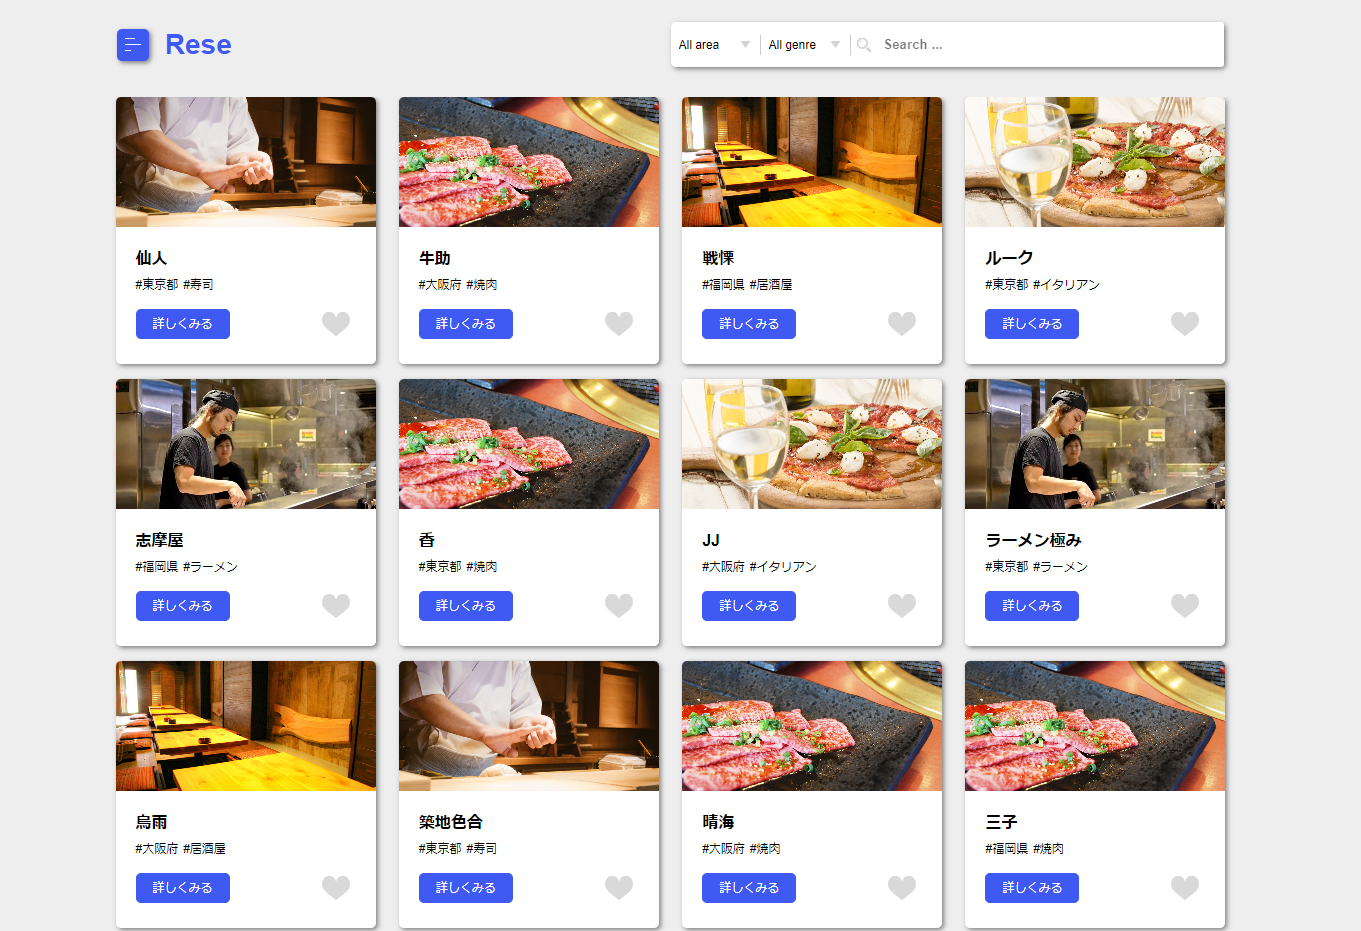
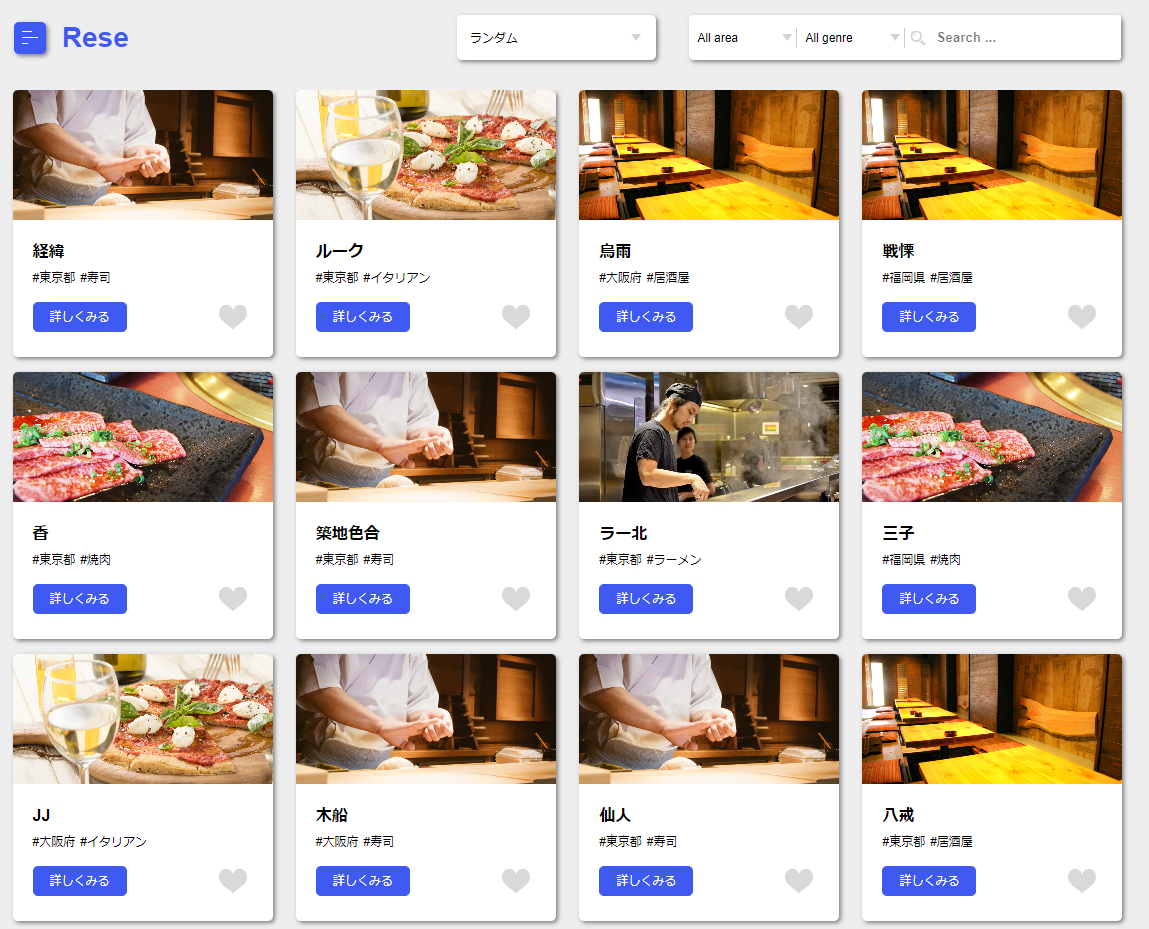
修正

diff --git a/src/resources/views/index.blade.php b/src/resources/views/index.blade.php
@@ -5,7 +5,7 @@
 @endsection
 
 @section('header')
-    <div class="header__right">
+    <form class="header__right" action="/" method="get">
         <div class="header__sort">
             <label class="select-box__label sort__label">
                 <select name="sort" class="select-box__item sort__item">
@@ -44,7 +44,7 @@
                 </label>
             </div>
         </div>
-    </div>
+    </form>
 
     <div class="header__right--hidden">
         <div class="search__icon">
